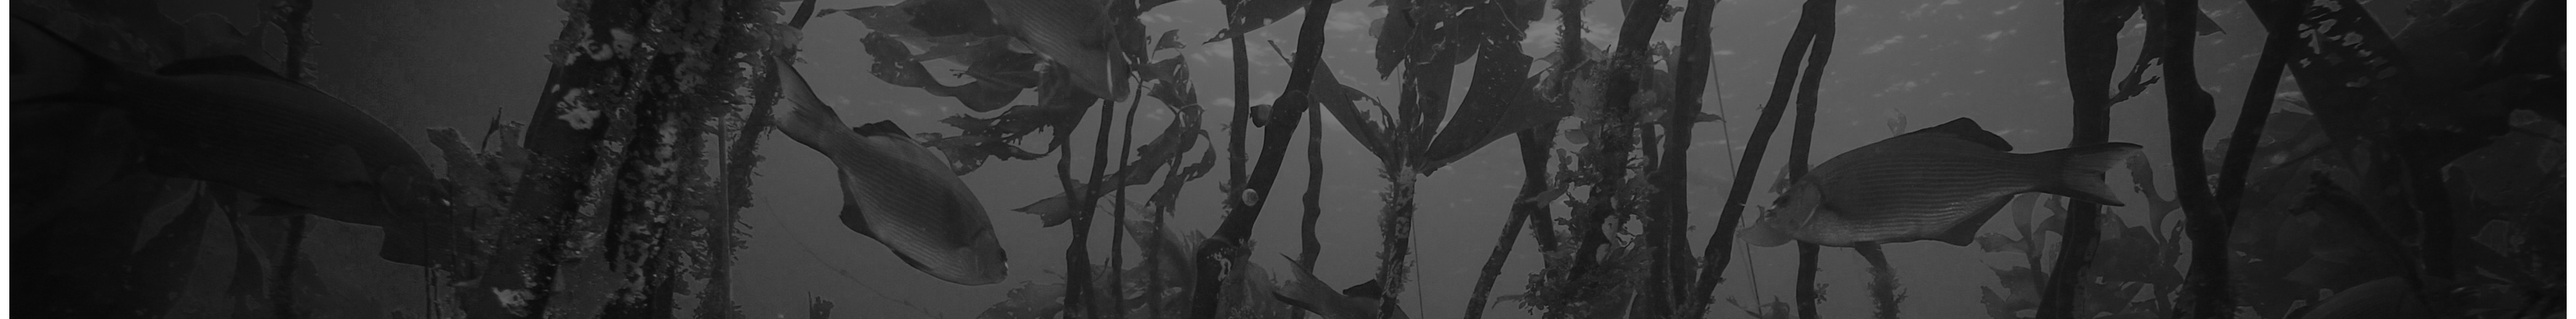
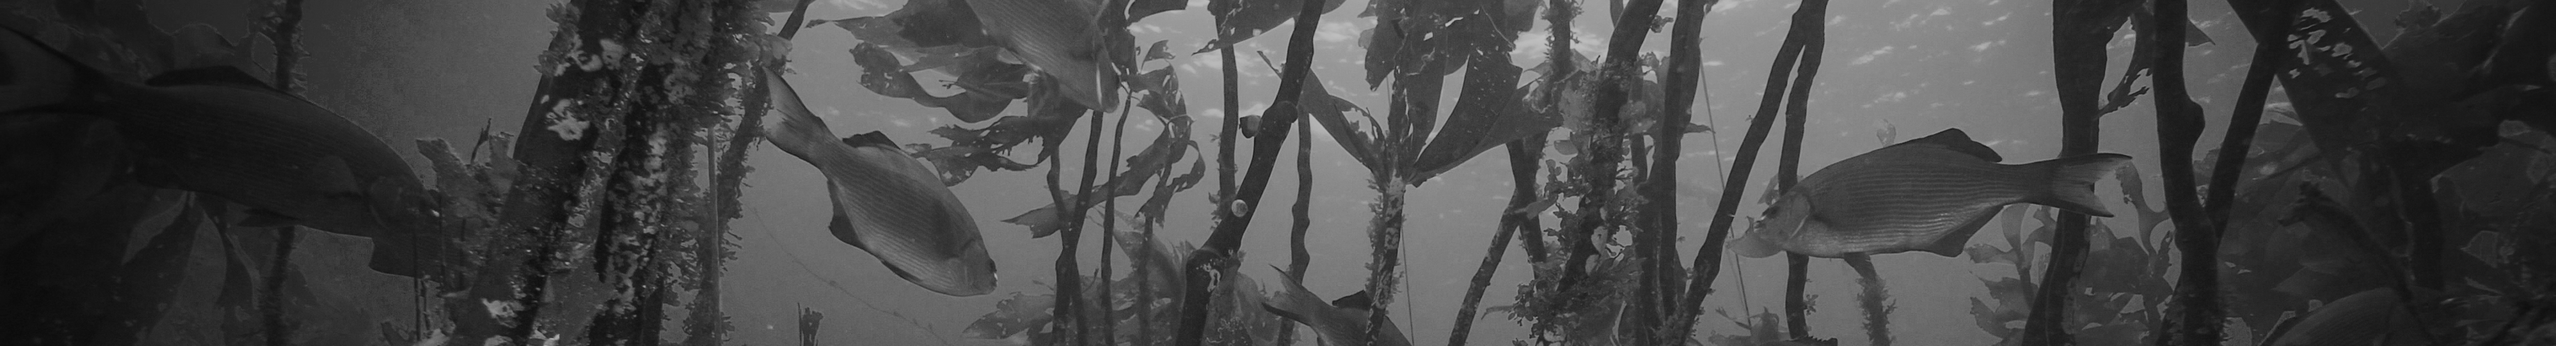
update images, and metadata source info

diff --git a/ckanext/cioos_theme/templates/package/snippets/metadata_source.html b/ckanext/cioos_theme/templates/package/snippets/metadata_source.html
@@ -4,16 +4,28 @@
     <tbody>
       {% block package_metadata_source %}
           <tr>
-            <td><img src='{{ pkg_dict.organization.image_url }}' /></td>
+            <td><img src='/base/images/{{ pkg_dict.organization.image_url }}' style="max-height:50px;"/></td>
             <td>
               <span> <strong>{{  pkg_dict.organization.title }} </strong> </span>
-              {% if pkg_dict.url %}
-                  {% if h.is_url(pkg_dict.url) %}
-                    <span property="foaf:homepage"> <a href="{{ pkg_dict.url }}">{{ _('Source') }}</a> </span>
+              {% for extra in pkg_dict %}
+                {% set key, value = extra %}
+                {% if key == "harvest_url" set url = value %}
+                {% if key == "guid" set guid = value %}
+                {% if key == "harvest_title" set title = value %}
+                {% if key == "harvest_job_id" set job = value %}
+              {% endfor %}
+
+              {% if url %}
+                  {% if h.is_url(url) %}
+                    <span property="foaf:homepage"> <a href="{{ url }}{{guid}}">{{ _('Source') }} from {{ title }}</a> </span>
                   {% else %}
-                    <span property="foaf:homepage"> {{ pkg_dict.url }} </span>
+                    <span property="foaf:homepage"> {{ url }}{{ guid }} </span>
                   {% endif %}
-              {% endif %}            
+              {% endif %}
+              {% if job %}
+                {% set job_url = h.url_for('harvest_object', id=job) %}
+                <span> <a href="{{ job_url }}">Download Metadata</a></span>
+              {% endif %}
             </td>
           </tr>
       {% endblock %}

diff --git a/ckanext/cioos_theme/templates/home/layout4.html b/ckanext/cioos_theme/templates/home/layout4.html
@@ -1,4 +1,4 @@
-<div role="main" class="hero">
+<div role="main" class="hero" style="overflow: hidden; background-repeat: no-repeat; background-attachment: fixed; background-position: center; background: url(../../../base/images/fish.png);">
   <div class="container">
     <div class="row row1">
       <div class="col-md-12 col1">
@@ -38,8 +38,8 @@
   <div class="container">
     <div class="row row2">
       <div class="col-md-6 col1">
-	<div class="box"> 
-	<div class="inner"> 
+	<div class="box">
+	<div class="inner">
 	  <p>Welcome to the data discovery site for the Pacific Node of the CIOOS project.</p>
 	  <p>This site aims to provide open access to a wide range of resources related to the canadian oceans.</p>
 	  <p>As most of this work is on-going, new resources will gradually be uploaded. We also welcome suggestions from external visitors on relevant datasets that could be linked to the platform at: someone (at) cioos.org.</p>

diff --git a/ckanext/cioos_theme/templates/package/snippets/additional_info.html b/ckanext/cioos_theme/templates/package/snippets/additional_info.html
@@ -82,7 +82,7 @@
         {% block extras scoped %}
 
           {% set items_to_skip = ['graphic-preview-description', 'coupled-resource', 'graphic-preview-type', 'spatial_harvester',
-              'bbox-east-long', 'bbox-north-lat', 'bbox-south-lat', 'bbox-west-long', 'spatial', 'temporal-extent-begin' ,'temporal-extent-end'
+              'bbox-east-long', 'bbox-north-lat', 'bbox-south-lat', 'bbox-west-long', 'spatial', 'temporal-extent-begin' ,'temporal-extent-end',
               'metadata-date', 'dataset-reference-date', 'frequency-of-update', 'graphic-preview-file', 'licence', 'access_constraints'] %}
 
           {% for extra in h.sorted_extras(pkg_dict.extras) %}
@@ -165,4 +165,3 @@
     </tbody>
   </table>
 </section>
-
